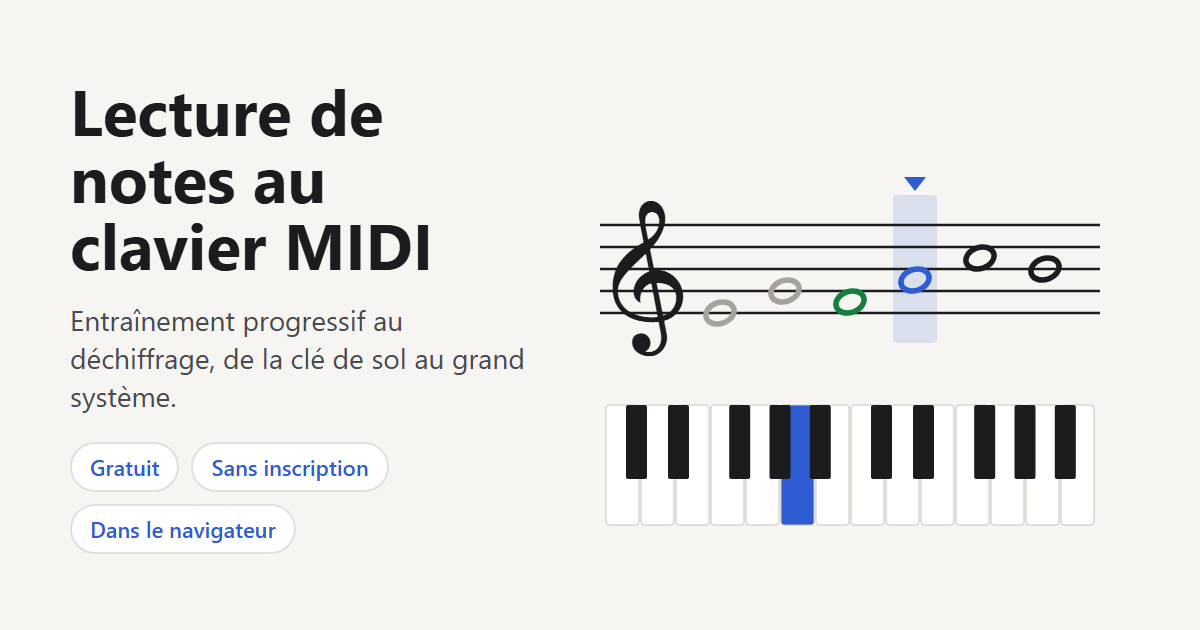
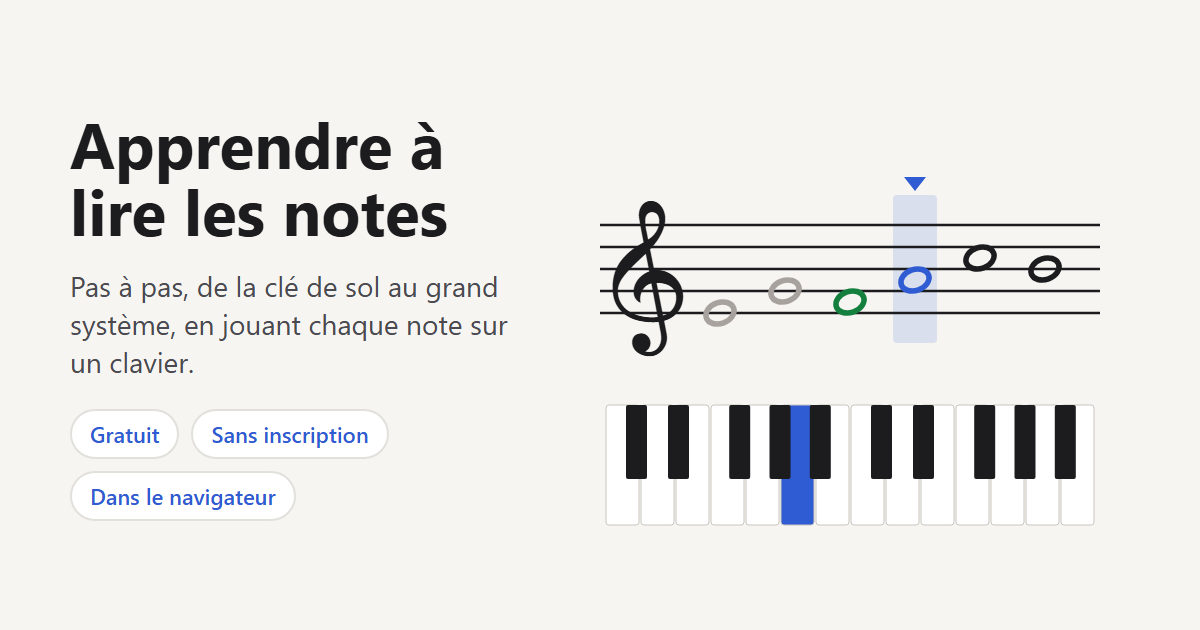
Put learning first in titles and make the header title a home link
- Apprendre à lire les notes / Learn to Read Music in the header,
  tab title, description, share preview, manifest and schema.org data
- Header title with icon links back to practice

Changed region(s): [[0.0617, 0.1508, 0.4317, 0.8746]]

diff --git a/index.html b/index.html
@@ -3,20 +3,20 @@
   <head>
     <meta charset="UTF-8" />
     <meta name="viewport" content="width=device-width, initial-scale=1.0" />
-    <title>Lecture de notes au clavier MIDI — entraînement au déchiffrage</title>
+    <title>Apprendre à lire les notes au piano — exercices pas à pas</title>
     <meta
       name="description"
-      content="Apprenez à lire les notes sur la portée en jouant sur votre clavier MIDI : 10 niveaux progressifs, de la clé de sol au grand système, examens de validation, statistiques et suivi de plusieurs élèves. Gratuit, sans inscription, dans le navigateur."
+      content="Apprenez à lire les notes sur la portée, pas à pas : 10 niveaux de la clé de sol au grand système, en jouant chaque note sur un clavier (MIDI, ordinateur ou à l’écran). Examens de validation, statistiques, plusieurs élèves. Gratuit, sans inscription."
     />
     <meta name="theme-color" content="#2f5bd3" />
     <link rel="icon" href="/favicon.svg" type="image/svg+xml" />
     <link rel="manifest" href="/manifest.webmanifest" />
 
     <meta property="og:type" content="website" />
-    <meta property="og:title" content="Lecture de notes au clavier MIDI" />
+    <meta property="og:title" content="Apprendre à lire les notes au piano" />
     <meta
       property="og:description"
-      content="Entraînement progressif au déchiffrage avec un clavier MIDI : clé de sol, clé de fa, lignes supplémentaires, grand système. Gratuit, dans le navigateur."
+      content="Apprenez à lire les notes, pas à pas, de la clé de sol au grand système, en jouant sur un clavier. Gratuit, sans inscription, dans le navigateur."
     />
     <meta property="og:locale" content="fr_FR" />
     <meta property="og:locale:alternate" content="en_US" />
@@ -27,11 +27,11 @@
   <body>
     <div id="root"></div>
     <noscript>
-      <h1>Lecture de notes au clavier MIDI</h1>
+      <h1>Apprendre à lire les notes</h1>
       <p>
-        Entraînement à la lecture de notes sur la portée avec un clavier MIDI, le clavier de l’ordinateur ou le
-        clavier affiché. Cette application fonctionne dans le navigateur et nécessite JavaScript (Chrome, Edge ou
-        Firefox).
+        Apprenez à lire les notes sur la portée, pas à pas, en jouant chaque note sur un clavier MIDI, le clavier de
+        l’ordinateur ou le clavier affiché. Cette application fonctionne dans le navigateur et nécessite JavaScript
+        (Chrome, Edge ou Firefox).
       </p>
     </noscript>
     <script type="module" src="/src/main.tsx"></script>

diff --git a/src/i18n/messages.ts b/src/i18n/messages.ts
@@ -8,9 +8,10 @@ import type { Locale } from './locale';
  * Les textes paramétrés sont des fonctions.
  */
 const fr = {
-  appTitle: 'Lecture de notes',
+  appTitle: 'Apprendre à lire les notes',
+  homeLink: 'Retour à l’entraînement',
   /** Titre de l'onglet et des résultats de recherche (même texte que dans index.html). */
-  documentTitle: 'Lecture de notes au clavier MIDI — entraînement au déchiffrage',
+  documentTitle: 'Apprendre à lire les notes au piano — exercices pas à pas',
   language: 'Langue',
 
   clef: { treble: 'Clé de sol', bass: 'Clé de fa', grand: 'Grand système' } satisfies Record<LevelClef, string>,
@@ -93,7 +94,7 @@ const fr = {
   aboutVersion: (version: string) => `Version ${version}`,
   aboutCommit: (commit: string) => `build ${commit}`,
   aboutDescription:
-    'Entraînement à la lecture de notes sur la portée, avec un clavier MIDI, le clavier de l’ordinateur ou le clavier affiché.',
+    'Apprendre à lire les notes sur la portée, pas à pas, en jouant chaque note sur un clavier MIDI, le clavier de l’ordinateur ou le clavier affiché.',
   madeBy: 'Réalisé par',
   aboutPrivacy:
     'La progression des élèves reste dans ce navigateur : rien n’est envoyé sur Internet. Pensez à exporter une sauvegarde.',
@@ -263,8 +264,9 @@ const fr = {
 export type Messages = typeof fr;
 
 const en: Messages = {
-  appTitle: 'Note Reading',
-  documentTitle: 'Note Reading with a MIDI Keyboard — Sight-Reading Practice',
+  appTitle: 'Learn to Read Music',
+  homeLink: 'Back to practice',
+  documentTitle: 'Learn to Read Music on the Piano — Step-by-Step Practice',
   language: 'Language',
 
   clef: { treble: 'Treble clef', bass: 'Bass clef', grand: 'Grand staff' },
@@ -340,7 +342,8 @@ const en: Messages = {
   aboutTitle: (app) => `About “${app}”`,
   aboutVersion: (version) => `Version ${version}`,
   aboutCommit: (commit) => `build ${commit}`,
-  aboutDescription: 'Practice reading notes on the staff, with a MIDI keyboard, the computer keyboard or the on-screen keyboard.',
+  aboutDescription:
+    'Learn to read notes on the staff, step by step, by playing each note on a MIDI keyboard, the computer keyboard or the on-screen keyboard.',
   madeBy: 'Made by',
   aboutPrivacy: 'Student progress stays in this browser: nothing is sent over the Internet. Remember to export a backup.',
   aboutLicenseTitle: 'License',

diff --git a/vite.config.ts b/vite.config.ts
@@ -54,10 +54,13 @@ function seo(env: Record<string, string>): Plugin {
       const data = {
         '@context': 'https://schema.org',
         '@type': 'WebApplication',
-        name: 'Lecture de notes au clavier MIDI',
-        alternateName: 'Note Reading with a MIDI Keyboard',
+        name: 'Apprendre à lire les notes',
+        alternateName: 'Learn to Read Music',
         description:
-          'Entraînement progressif à la lecture de notes sur la portée avec un clavier MIDI : 10 niveaux, examens de validation, statistiques, plusieurs élèves.',
+          'Apprendre à lire les notes sur la portée, pas à pas, en jouant chaque note sur un clavier : 10 niveaux, examens de validation, statistiques, plusieurs élèves.',
+        educationalUse: 'practice',
+        learningResourceType: 'exercise',
+        teaches: 'Lecture de notes sur la portée (clé de sol, clé de fa, grand système)',
         applicationCategory: 'EducationalApplication',
         operatingSystem: 'Web',
         browserRequirements: 'Chrome, Edge ou Firefox ; Web MIDI pour un clavier MIDI',

diff --git a/src/App.tsx b/src/App.tsx
@@ -88,7 +88,23 @@ export default function App() {
   return (
     <div className="app">
       <header className="app-header">
-        <h1>{t.appTitle}</h1>
+        <h1>
+          {/* Vrai lien (nouvel onglet possible) ; un clic simple revient à l'entraînement sans recharger. */}
+          <a
+            href={import.meta.env.BASE_URL}
+            className="brand"
+            title={t.homeLink}
+            onClick={(event) => {
+              if (event.button !== 0 || event.ctrlKey || event.metaKey || event.shiftKey || event.altKey) return;
+              event.preventDefault();
+              setView('training');
+              if (picker === 'open') setPicker('closed');
+            }}
+          >
+            <img src={`${import.meta.env.BASE_URL}favicon.svg`} alt="" width="28" height="28" />
+            {t.appTitle}
+          </a>
+        </h1>
         {showNav && (
           <nav className="main-nav">
             <button

diff --git a/src/index.css b/src/index.css
@@ -93,6 +93,23 @@ button.primary kbd {
   font-weight: 650;
 }
 
+.brand {
+  display: inline-flex;
+  align-items: center;
+  gap: 0.5rem;
+  color: inherit;
+  text-decoration: none;
+}
+
+.brand:hover {
+  color: var(--accent);
+}
+
+.brand img {
+  flex: none;
+  border-radius: 6px;
+}
+
 .midi-status {
   display: flex;
   flex-wrap: wrap;
